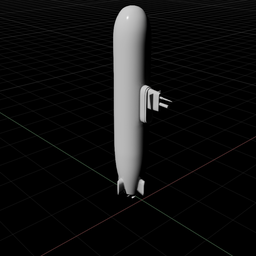
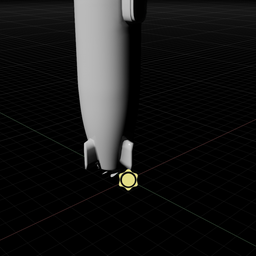
update objectScan writer and objectScatter writer

diff --git a/replicator_OceanSim/objectScan_SDG/objectScan_CylindricalGrid.py b/replicator_OceanSim/objectScan_SDG/objectScan_CylindricalGrid.py
@@ -1,0 +1,162 @@
+import asyncio
+import os
+
+import numpy as np
+import omni.replicator.core as rep
+from omni.replicator.core import Writer, AnnotatorRegistry, BackendDispatch
+from omni.replicator.core.scripts.functional import write_image, write_json, write_np
+import random
+WRITE_THREADS = 16
+QUEUE_SIZE = 5000
+
+rep.settings.carb_settings("/omni/replicator/backend/writeThreads", WRITE_THREADS)
+rep.settings.carb_settings("/omni/replicator/backend/queueSize", QUEUE_SIZE)
+
+
+## Writer ##
+class ScanWriter(Writer):
+    def __init__(
+        self,
+        output_dir,
+    ):
+        self.backend = BackendDispatch({"paths": {"out_dir": output_dir}})
+        self.annotators.append(AnnotatorRegistry.get_annotator("camera_params"))
+        self.annotators.append(AnnotatorRegistry.get_annotator("distance_to_camera"))
+        self.annotators.append(AnnotatorRegistry.get_annotator("pointcloud"))
+        # self.annotators.append(AnnotatorRegistry.get_annotator("rgb")) 
+
+
+        self._frame_id = 0
+    
+    
+    def write(self, data:dict):
+        self._process_frame_data(data)
+        self._write_frame_data()
+        print(f"Writing frame [{self._frame_id}] data to {self.backend.output_dir} ..")
+
+        self._frame_id += 1
+    
+    
+    
+    
+    # Process the render product data and store it in the selected format, return the number of objects in the frame
+    def _process_frame_data(self, data: dict):
+        # Store the frame data for writing to disk
+        self._frame_data = {}
+
+        # Get and process the camera parameters annotator data in the selected format
+
+        # Store the camera information in the
+        self._frame_data["camera_data"] = self._process_camera_parameters(data["camera_params"])
+
+        self._frame_data["depth_data"] = data["distance_to_camera"]
+
+        self._frame_data['pcl_data'] = data["pointcloud"]["data"]
+
+        # self._frame_data["rgb_data"] = data["rgb"]
+    
+    
+    # Get the camera parameters from the annotator data
+    def _process_camera_parameters(self, camera_params) -> dict:
+        camera_data = {}
+        camera_data["aperture"] = camera_params["cameraAperture"].tolist()
+        camera_data["aperture_offset"] = camera_params["cameraApertureOffset"].tolist()
+        camera_data["focal_length"] = float(camera_params["cameraFocalLength"])
+        camera_data["resolution"] = camera_params["renderProductResolution"].tolist()
+        camera_data["meters_per_scene_unit"] = float(camera_params["metersPerSceneUnit"])
+
+        # OV only supports square pixels, so the pixel size is the same in both x and y directions
+        # https://docs.omniverse.nvidia.com/materials-and-rendering/latest/cameras.html#cameras
+        pixel_size = camera_params["cameraAperture"][0] / camera_params["renderProductResolution"][0]
+        camera_data["intrinsics"] = {
+            "fx": camera_params["cameraFocalLength"] / pixel_size,
+            "fy": camera_params["cameraFocalLength"] / pixel_size,
+            "cx": camera_params["renderProductResolution"][0] / 2.0 + camera_params["cameraApertureOffset"][0],
+            "cy": camera_params["renderProductResolution"][1] / 2.0 + camera_params["cameraApertureOffset"][1],
+        }
+        camera_data["camera_view_matrix"] = np.round(camera_params["cameraViewTransform"], 5).reshape(4, 4).tolist()
+        camera_data["camera_projection_matrix"] = np.round(camera_params["cameraProjection"], 5).reshape(4, 4).tolist()
+
+        return camera_data
+
+    # Write the processed data to disk
+    def _write_frame_data(self):
+        # Write camera params to as a JSON file
+        file_path_cameraParams = f"cameraParams/cameraParams_{self._frame_id}.json"
+        self.backend.schedule(write_json, path=file_path_cameraParams, data=self._frame_data["camera_data"])
+
+        # # Write rgb to png image
+        # file_path_rgb = f"rgb/rgb_{self._frame_id}.png"
+        # self.backend.schedule(write_image, path=file_path_rgb, data=self._frame_data["rgb_data"])
+
+        # Write depth data to npy
+        file_path_depth = f"depth/depth_{self._frame_id}.npy"
+        self.backend.schedule(write_np, path=file_path_depth, data=self._frame_data["depth_data"])
+
+        # Write pointcloud to npy
+        file_path_pcl = f"pcl/pcl_{self._frame_id}.npy"
+        self.backend.schedule(write_np, path=file_path_pcl, data=self._frame_data["pcl_data"])
+    
+    
+    def on_final_frame(self):
+        self._frame_id = 0
+
+
+# Register this writer
+rep.WriterRegistry.register(ScanWriter)
+
+
+## Scene ##
+
+RT_SUBFRAMES = 2
+r0 = 4.5
+
+z_range = [0, 20] 
+num_z = 5
+z_list = np.linspace(z_range[0], z_range[1], num_z)
+num_azi = 5
+azi_list = np.linspace(0, 2*np.pi, num_azi)
+
+num_data = len(z_list) * len(azi_list)
+
+
+cam = rep.create.camera(clipping_range=[0.01, 16])
+rp = rep.create.render_product(cam, (1024, 1024))
+writer = rep.WriterRegistry.get("ScanWriter")
+
+rep.create.light(light_type="dome")
+
+out_dir = '/home/haoyu-ma/Desktop' + "/_out_custom_event"
+print(f"Writing data to {out_dir}")
+writer.initialize(output_dir=out_dir)
+writer.attach(rp)
+
+def move_cam(r0, azi, z):
+
+    cam_xform_prim = rep.get.xform(path_pattern="Camera_Xform").get_output_prims()['prims'][0]
+    cam_xform_prim.GetAttribute('xformOp:translate').Set((r0 * np.cos(azi), r0* np.sin(azi), z))
+    cam_xform_prim.GetAttribute('xformOp:rotateXYZ').Set((0.0 + random.uniform(-10.0, 10.0),
+                                                          0.0 + random.uniform(-45.0, 45.0), 
+                                                          np.rad2deg(azi) + random.uniform(-15.0, 15.0)))
+
+rep.trigger.register(move_cam)
+
+
+
+async def run_scan_async(r0, z_list, azi_list):
+
+    for i in range(len(z_list)):
+        for j in range(len(azi_list)):
+            
+            rep.trigger.move_cam(r0, azi_list[j], z_list[i])
+
+            # step the simulation to write one frame of data
+            await rep.orchestrator.step_async(rt_subframes=RT_SUBFRAMES)
+
+
+    # Wait until all the data is saved to disk
+    await rep.orchestrator.wait_until_complete_async()
+
+
+
+asyncio.ensure_future(run_scan_async(r0, z_list, azi_list))

diff --git a/replicator_OceanSim/objectScatter_writer/objectScatter_writer.py b/replicator_OceanSim/objectScatter_writer/objectScatter_writer.py
@@ -1,0 +1,31 @@
+import omni.replicator.core as rep
+from pxr import Gf, PhysxSchema, Sdf, Usd, UsdGeom, UsdPhysics
+import random
+
+
+
+## Define randomzing functions
+
+# randomly scatter objects on the ground plane
+
+def create_objects(scatter_surface, assets_root_path, numObj):
+    usd_files = rep.utils.get_usd_files(path=assets_root_path, recursive=True)
+    selected_usd = random.choices(usd_files, k=numObj) # allow duplicate selection, otherwise using random.sample()
+    objects_prims = []
+    
+    for usd in selected_usd:
+        object = rep.create.from_usd(usd, semantics=[('class', 'objects')])
+    ## TODO
+    ## Use semantics to get group of items in replicators
+    with objects_prims:
+        rep.modify.pose(scale=0.01)
+        rep.randomizer.scatter_2d(surface_prims=scatter_surface,
+                                check_for_collisions=True) 
+
+rep.randomizer.register(scatter_objects)
+
+
+groundPlane = rep.get.prims(semantics=[("class", "groundPlane")])
+assets_root_path = '/home/haoyu-ma/Desktop/test_usd'
+with rep.trigger.on_frame(max_execs=1):
+    rep.randomizer.scatter_objects(groundPlane, assets_root_path, 5)
